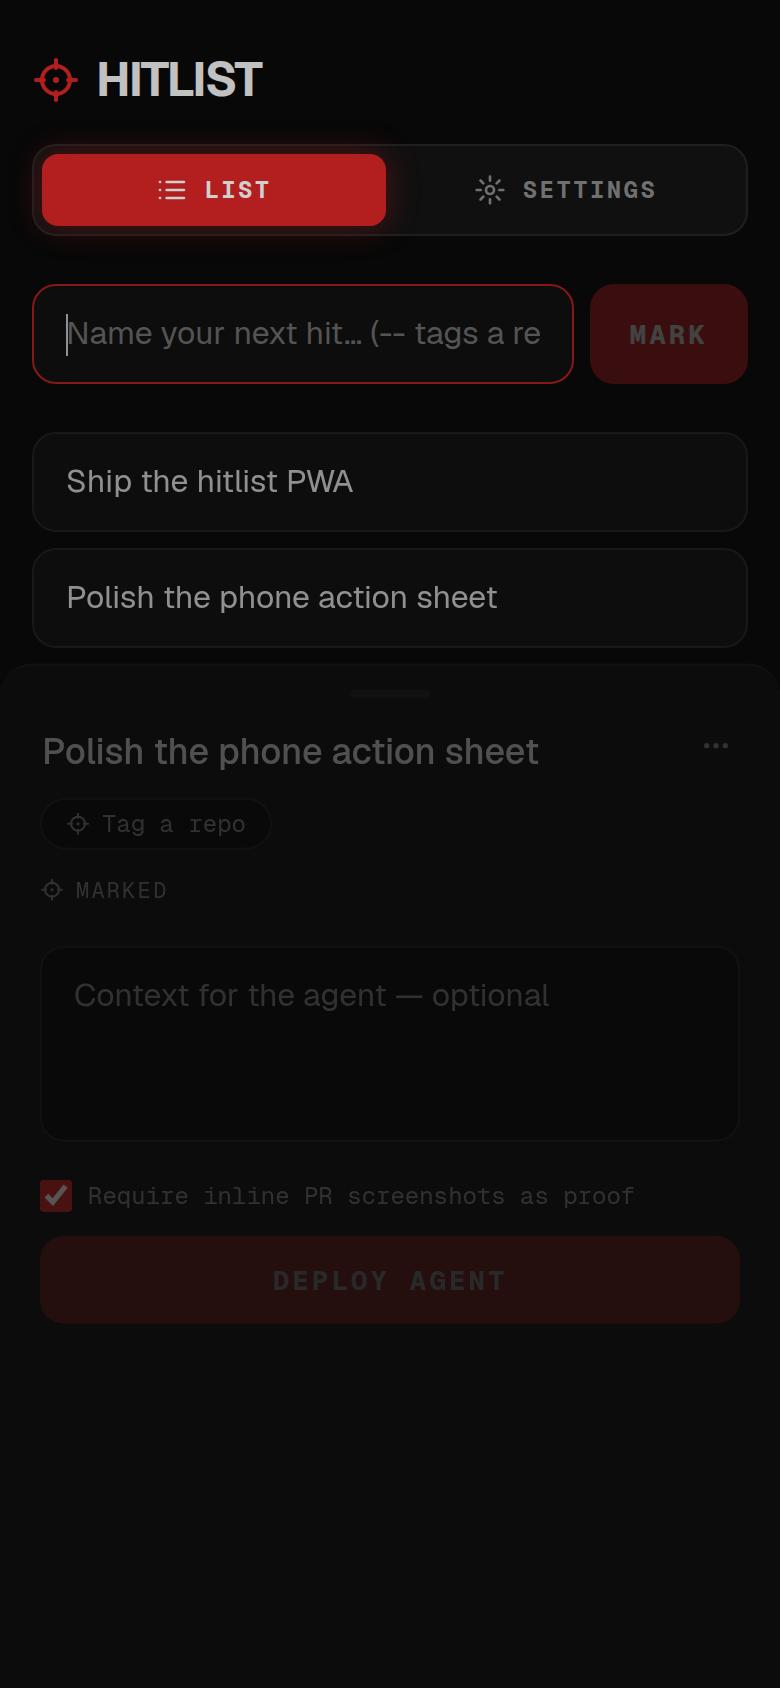
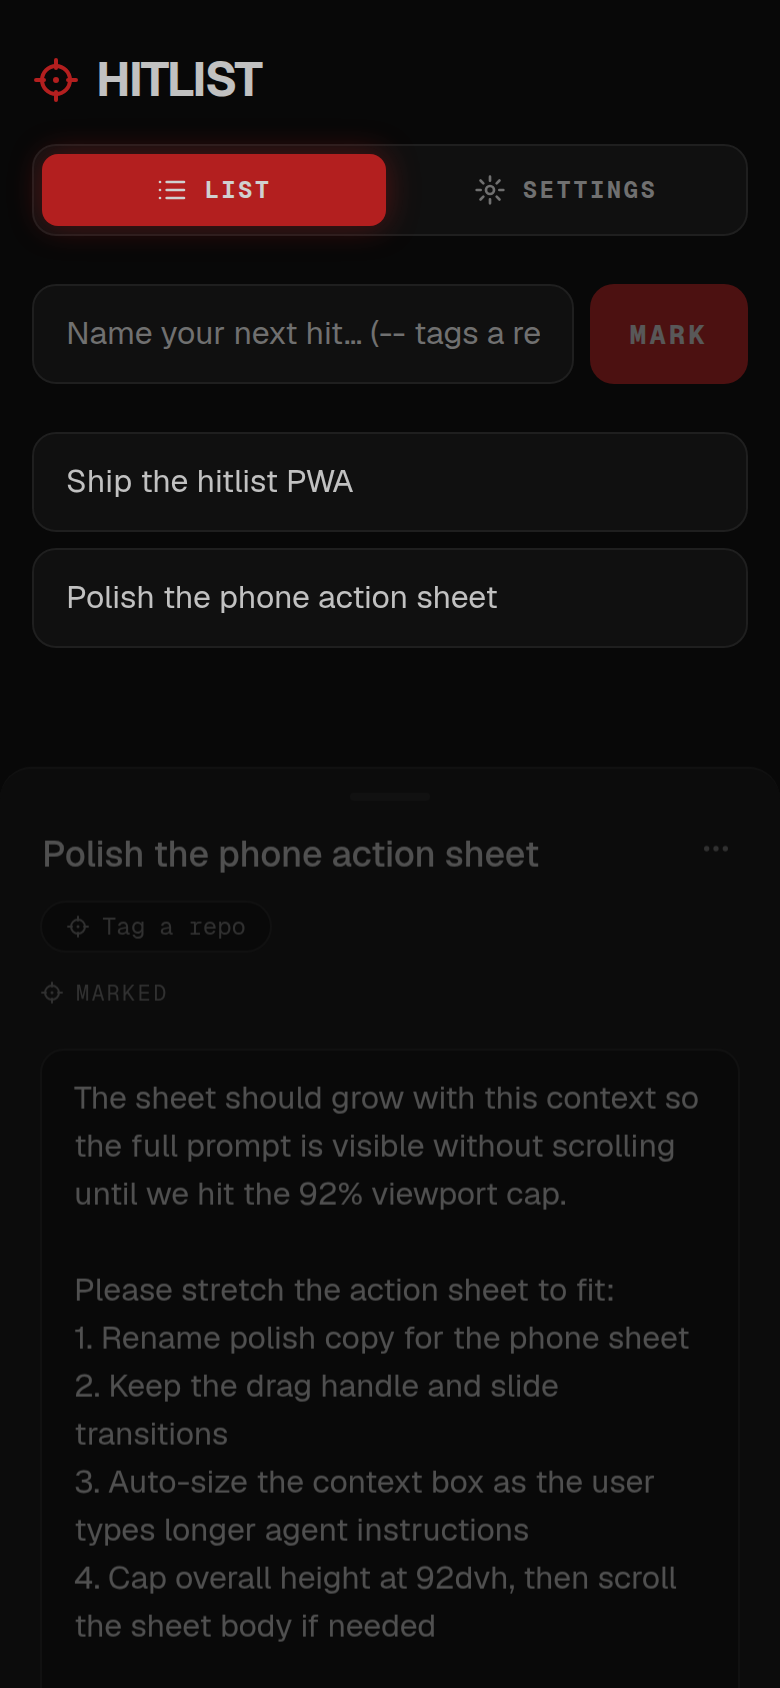
Size action sheet to context content, capped at 92dvh
Drop the fixed full-height sheet so it hugs content again, grow the
context textarea with field-sizing-content, and keep max-h at 92dvh.

diff --git a/app/components/Sheets.tsx b/app/components/Sheets.tsx
@@ -7,7 +7,7 @@ import type { CursorModel } from "@/app/lib/cursor";
 import { StatusBadge, deployable, prIcon } from "@/app/components/TaskList";
 import { BLOOD_BUTTON, Icon } from "@/app/components/Icons";
 
-/** Bottom sheet: nearly full-height on phone, slides up on open / down on close. */
+/** Bottom sheet: sizes to content up to 92dvh, slides up on open / down on close. */
 function Sheet({
   onClose,
   children,
@@ -32,7 +32,7 @@ function Sheet({
       <div
         role="dialog"
         aria-modal="true"
-        className={`flex h-[92dvh] max-h-[92dvh] flex-col overflow-hidden rounded-t-2xl border-t border-edge bg-surface ${
+        className={`flex max-h-[92dvh] flex-col overflow-hidden rounded-t-2xl border-t border-edge bg-surface ${
           closing ? "animate-slide-down" : "animate-slide-up"
         }`}
         onClick={(e) => e.stopPropagation()}
@@ -46,7 +46,7 @@ function Sheet({
         <div className="flex shrink-0 justify-center pt-3 pb-1" aria-hidden>
           <div className="h-1 w-10 rounded-full bg-edge" />
         </div>
-        <div className="min-h-0 flex-1 overflow-y-auto overscroll-contain px-5 pb-[max(1.25rem,env(safe-area-inset-bottom))] pt-2">
+        <div className="min-h-0 overflow-y-auto overscroll-contain px-5 pb-[max(1.25rem,env(safe-area-inset-bottom))] pt-2">
           {children}
         </div>
       </div>
@@ -409,7 +409,7 @@ export function TaskSheet({
             onBlur={saveDetails}
             placeholder="Context for the agent — optional"
             rows={3}
-            className="mb-3 w-full resize-none rounded-xl border border-edge bg-background px-4 py-3 text-base outline-none placeholder:text-muted focus:border-blood"
+            className="mb-3 field-sizing-content min-h-[5.5rem] w-full resize-none overflow-hidden rounded-xl border border-edge bg-background px-4 py-3 text-base outline-none placeholder:text-muted focus:border-blood"
           />
         ) : (
           task.details && (
